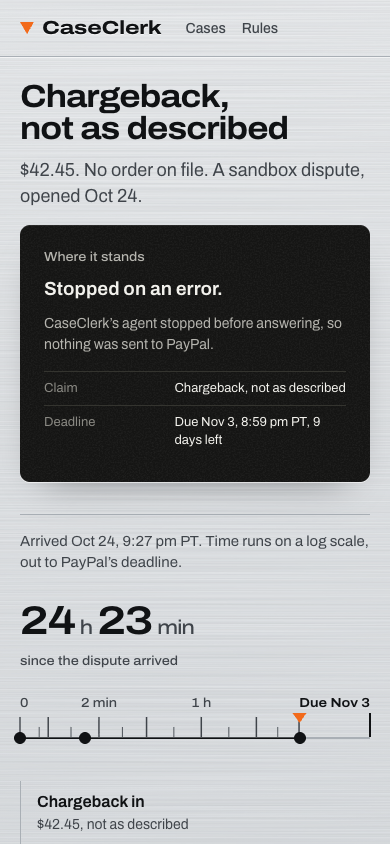
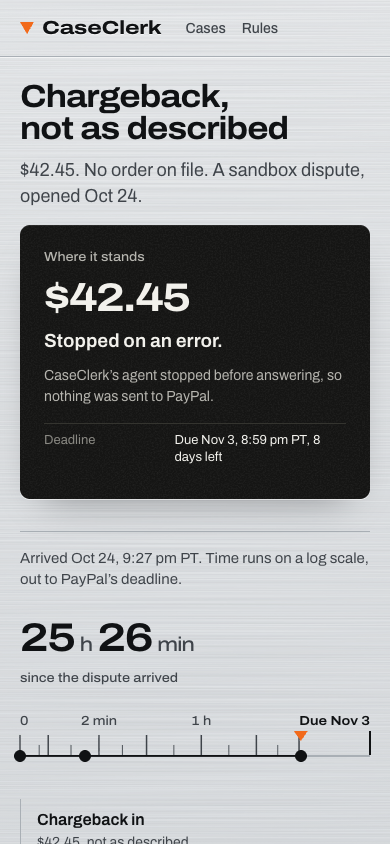
d2 stage 2 v5: refreshed shots (landing, inbox, policy, every case; VAB kept, JKB kept, a selected stop's record, the mobile wire record), v5 fix table and gates

diff --git a/docs/design/d2/stage2/gates.md b/docs/design/d2/stage2/gates.md
@@ -38,3 +38,28 @@ Mocked approve flow on dev (POSTs answered locally): success at 1440 and 390, re
 - `approve-1440.mp4`: 18.8 s, 1440×900, H.264 25 fps; the real VAB approval from the click through confirm, the 5 s undo and sending to PayPal's 200 and the updated page. Frames: `approve-{confirm,undo,sending,answer}-1440.png`.
 - `<page>-<state>-{1440,390}.png`: landing, inbox, inbox test-dispute wait and capped, landing test-dispute wait, policy, and the case in each state.
 - `critique-inbox.md`, `critique-policy.md` (degraded: single context).
+
+## Delta v5: critic round 2 fixes, 2026-10-26
+
+Every row was reproduced against the hosted build and production data before it was fixed. No POST, PUT or DELETE was sent; every shot and check ran GET-only.
+
+| Row | Reproduced? | Result |
+|---|---|---|
+| P0-1 Deadlines → /board | yes, on every page ≥ 900px | fixed: link removed from the top bar; `/board` untouched (200) |
+| P0-2 $15 truth | yes: landing said "or $50", ledger line at $50; /policy at $15 | fixed: landing and /policy say "Over $250 to file evidence, or over $15 to refund or offer, it asks you first." from `/api/policy` (the lower of `autoRefundMaxUsd` and `approvalAboveUsd`, fallback 15/250); the landing ledger draws the $15 line like /policy |
+| P0-3 scale thinning | yes on VAB (Filed folded into Closed once PayPal resolved it); YDQ's "read" is folded on purpose, not thinned | fixed, changed approach: `foldClose` drops only passing stops (now, read); milestones are spaced ≥ ~20px along the rail; labels that would run past the rail hang left. VAB, YDQ, JKB and all 32 scales clean at 1440, 1536, 1920, 2560, 390 |
+| P0-4 proof per stop | yes: stale "Chargeback in" webhook on later stops; blank on cases with no CREATED webhook | fixed: every stop carries its own record (webhook, call, status, debug id, capture, outcome; else the line CaseClerk logged: the rule it stopped at, the error); the record line shows the selected stop's, unselected the stop under the index |
+| P1-5 mobile money / Claim repeat | yes (SGV, YSE, TMU at 390) | fixed: the plate keeps its figure under 900px once nothing waits; no Claim row when the title is the claim. Also: Kept green only for money PayPal stated (VAB, JKB show the disputed amount in ink) |
+| P1-6 ids in mobile wire record | yes | fixed: each entry on two lines, PayPal's id under time, what, status |
+| P2-7 policy lane labels | yes ("Own") | fixed: a line in the lowest quarter leaves its under-zone unlabelled (named in the accessible label); head says "Asks over $15"; bead captions at the lane's right edge |
+| P2-8 /cases WARN | not reproduced: /cases was 0 WARN at all 5 sizes; `.td-lede` is already a `<p>` | the landing's try band had the same G2 WARN at 1536/1920/2560; fixed by putting the control under its band's words |
+| VAB kept with Filed | VAB resolved 05:02:34Z (RESOLVED webhook) | shows in, Asked you, You said yes. Filed, Closed for you |
+
+Gates on hosted 933049e (ffbe17f for pages the last commit doesn't touch):
+
+| Page | check.sh (1440, 1920, 1536, 2560, 390) | detect 1440 / 390 |
+|---|---|---|
+| `/`, `/cases`, `/policy` | 0 FAIL, 0 WARN | 0 / 0 |
+| case VPY, VAB, SGV, YSE, YDQ, JKB, TMU | 0 FAIL, 0 WARN | 0 / 0 |
+
+Shots refreshed: landing, inbox, policy and every case shot; new: `case-resolved-kept-vab-*`, `case-autofiled-kept-jkb-*` (JKB was resolved for the seller 05:23Z; replaces `case-autofiled-jkb-*`), `case-vab-stop-filed-1440` and `case-tmu-stop-in-1440` (a selected stop's own record), `landing-stop-read-1440`, `case-record-vpy-390` (mobile wire record). Not refreshed: the approve frames and video, `case-filed-vab-after-approval-*` and the test-dispute wait shots: they record live moments that can't be replayed without new real actions (the 1440 ones still show the old Deadlines link).
